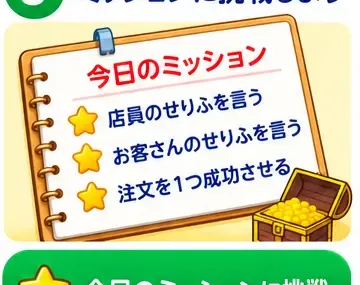
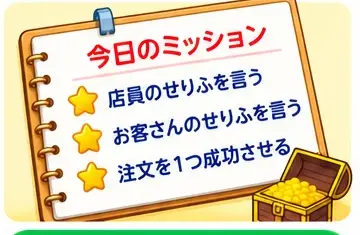
Use selected order illustration and fit home art cleanly

diff --git a/index.html b/index.html
@@ -864,7 +864,7 @@
 .home-step-vocab .home-step-visual{display:grid;grid-template-columns:repeat(3,1fr);grid-template-rows:repeat(2,1fr);align-items:center;justify-items:center;gap:5px;padding:7px}
 .home-step-vocab .home-step-visual img{width:100%;height:100%;min-height:0;object-fit:contain;border:2px solid #ffe082;border-radius:8px;background:#fff}
 .home-step-role .home-step-visual{display:block;padding:0;background:#eaf8ff}
-.home-roles-art{width:100%!important;height:100%!important;object-fit:cover!important;object-position:center!important}
+.home-roles-art{width:100%!important;height:100%!important;object-fit:contain!important;object-position:center!important;background:#eaf8ff}
 .home-role-buttons{display:grid;grid-template-columns:1fr 1fr;gap:4px;margin:3px 0 2px}
 .home-role-buttons .home-role-btn{min-height:27px;padding:4px 2px;border-radius:8px;background:#168df0;color:#fff;font-size:clamp(.55rem,.78vw,.8rem);font-weight:900}
 .home-role-buttons .home-role-btn:last-child{background:#ec6aa9}
@@ -873,7 +873,7 @@
 .home-role-levels button{min-width:0;padding:4px 2px;border:2px solid #f8bbd0;border-radius:6px;background:#fff;color:#5d4037;font:inherit;font-size:clamp(.46rem,.62vw,.68rem);font-weight:900;line-height:1;cursor:pointer;white-space:nowrap}
 .home-role-levels button.active{background:#ffad3d;border-color:#f28c00;color:#6d3b00}
 .home-step-mission .home-step-visual{padding:0;background:#fff5d8}
-.home-step-mission .home-step-visual img,.home-step-rush .home-step-visual img{width:100%;height:100%;object-fit:cover}
+.home-step-mission .home-step-visual img,.home-step-rush .home-step-visual img{width:100%;height:100%;object-fit:contain;background:#fff}
 .home-step-rush .home-step-visual{background:#fff;padding:0}
 .home-step-rush .home-step-visual:after{content:none}
 @media(max-width:1050px){.home-role-levels{gap:2px;padding:2px}.home-role-levels button{padding:3px 1px}}
@@ -2693,9 +2693,9 @@
 
   function orderListeningSentence(items) {
     const names = items.map(item => item.name);
-    if (names.length === 1) return `I'd like ${names[0]}, please.`;
+    if (names.length === 1) return `I'd like ${names[0]}. Please.`;
     const tail = names[names.length - 1];
-    return `I'd like ${names.slice(0, -1).join(', ')} and ${tail}, please.`;
+    return `I'd like ${names.slice(0, -1).join(', ')} and ${tail}. Please.`;
   }
 
   function buildOrderListeningQuestions() {
@@ -4047,5 +4047,5 @@
 
 
 </body>
-<!-- home illustration correction deployed 2026-10-12 -->
+<!-- order card audio and crop fixes 2026-10-12 -->
 </html>
